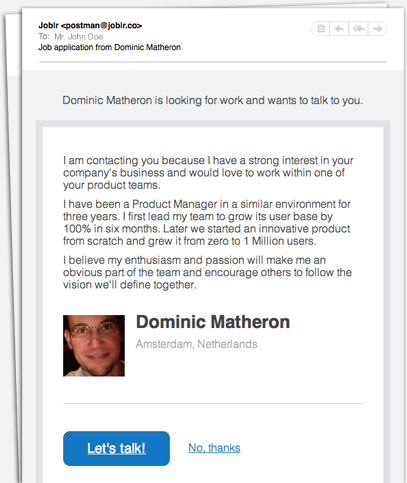
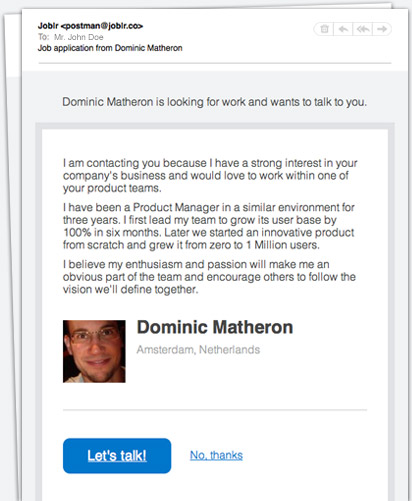
Created a fifth landing page, improved fourth

diff --git a/app/assets/stylesheets/_pages.scss b/app/assets/stylesheets/_pages.scss
@@ -62,76 +62,164 @@
 }
 
 #alt-landing{
-  h1, h3, p, .icon{
+  h1, h2, h3, p, .icon{
     color:$black;
   }
   .hero-unit{
-    padding-bottom:30px;
-    padding:0;
+    padding:10px 0 0 0;
     background-color:$bodyBackground;
     border:0;
     border-bottom:5px solid $grayLighter;
-    // phone
-    @media (max-width: 767px) {
-      padding-bottom:50px;
-      border-bottom:none;
-    }
     #value-prop{
-      padding-top:15px;
+      padding-top:40px;
       h1{
         font-size:55px;
         line-height:60px;
-        // mobile
-        @media (max-width: 979px) {
-          font-size:45px;
-          line-height:50px;
-        }
       }
       h3{
         padding:30px 0 40px 0;
         line-height:25px;
-        // tablet
-        @media (min-width:768px) and (max-width: 979px) {
-          padding:20px 0 30px 0;
-          font-size:18px;
-          line-height:22px;
-        }
       }
       // phone
       @media (max-width: 767px) {
         padding:0 10px 0 10px;
         text-align:center;
       }
+      // mobile
+      @media (max-width: 979px) {
+        h1{
+          font-size:40px;
+          line-height:45px;
+        }
+        h3{
+          padding:20px 0 30px 0;
+          font-size:18px;
+          line-height:22px;
+        }
+      }
     }
-    .the-hero img{
-      float:right;
-      padding-right:25px;
+    #the-hero{
+      // desktop
+      @media (min-width: 980px){
+        img{
+          margin-right:25px;
+          float:right;
+        }
+      }
       // tablet
-      @media (min-width:768px) and (max-width: 979px) {
-        padding-right:10px;
+      @media (min-width:768px) and (max-width: 979px){
+        img{
+          margin-right:10px;
+          float:right;
+        }
+      }
+      // phone
+      @media (max-width:767px) {
+        text-align:center;
+        img{
+          margin:60px 0 0 0;
+        }
       }
     }
   }
   #benefits{
-    padding-top:40px;
+    padding:17px 15px 50px 15px;
     text-align:center;
     h3{
       font-size:18px;
     }
     p{
       padding:15px;
+      margin-bottom:0px;
     }
     .icon{
-      margin-bottom:35px;
+      margin-bottom:28px;
       font-size:55px;
     }
-  }
-  .alert{
-    margin-top:33px;
     // phone
     @media (max-width: 767px) {
-      margin-top:83px;
+      padding-bottom:15px;
+      p{
+        margin-bottom:20px;
+      }
+      .icon{
+        margin-bottom:20px;
+      }
     }
+  }
+  #testimonials{
+    border-top:5px solid $grayLighter;
+    .testimonials{
+      h2{
+        margin:106px 0 55px 0;
+      }
+      .guillaume{
+        margin-top:40px;
+        text-align:right;
+      }
+      p{
+        padding:0 10px 0 10px;
+        margin-bottom:0px;
+        span{
+          &.text{
+            display:block;
+            margin-bottom:10px;
+            font-family:Times;
+            font-size:16px;
+            font-weight:100;
+            color:$grayDark;
+          }
+          &.name{
+            font-size:14px;
+            font-weight:bold;
+          }
+          &.job{
+            font-size:13px;
+          }
+        }
+      }
+      // small desktop
+      @media (min-width:980px) and (max-width:1200px) {
+        h2{
+          margin-top:68px;
+          font-size:23px;
+        }
+      }
+      // tablet
+      @media (min-width:768px) and (max-width: 979px) {
+        width:100%;
+        h2{
+          margin-top:70px;
+        }
+      }
+      // phone
+      @media (max-width:767px) {
+        padding-top:50px;
+        p{
+          padding:0;
+        }
+        .delphine{
+          img{
+            margin-bottom:20px;
+          }
+        }
+        .guillaume{
+          img{
+            margin-top:20px;
+          }
+        }
+      }
+    }
+    .hero-bottom img{
+      float:right;
+      margin-right:7px;
+    }
+  }
+  .alert.fourth{
+    margin-top:30px;
+  }
+  .alert.fifth{
+    margin-top:100px;
   }
 }
 

diff --git a/app/assets/stylesheets/application.scss b/app/assets/stylesheets/application.scss
@@ -81,7 +81,7 @@ footer{
   float:right;
   margin-top:65px;
   &.no-footer{
-    margin:15px 10px 50px 0;
+    margin:15px 10px 22px 0;
   }
   // Weird background out of nowhere
   ul.nav{

diff --git a/app/controllers/pages_controller.rb b/app/controllers/pages_controller.rb
@@ -4,7 +4,7 @@ class PagesController < ApplicationController
   before_filter :not_signed_in, only: :sign_up
 
   def landing
-    @version = ab_test('landing_version', 'old', 'alt', 'fourth')
+    @version = ab_test('landing_version', 'old', 'alt', 'fourth', 'fifth')
     @title   = t("pages.landing.#{@version}.title")
   end
 
